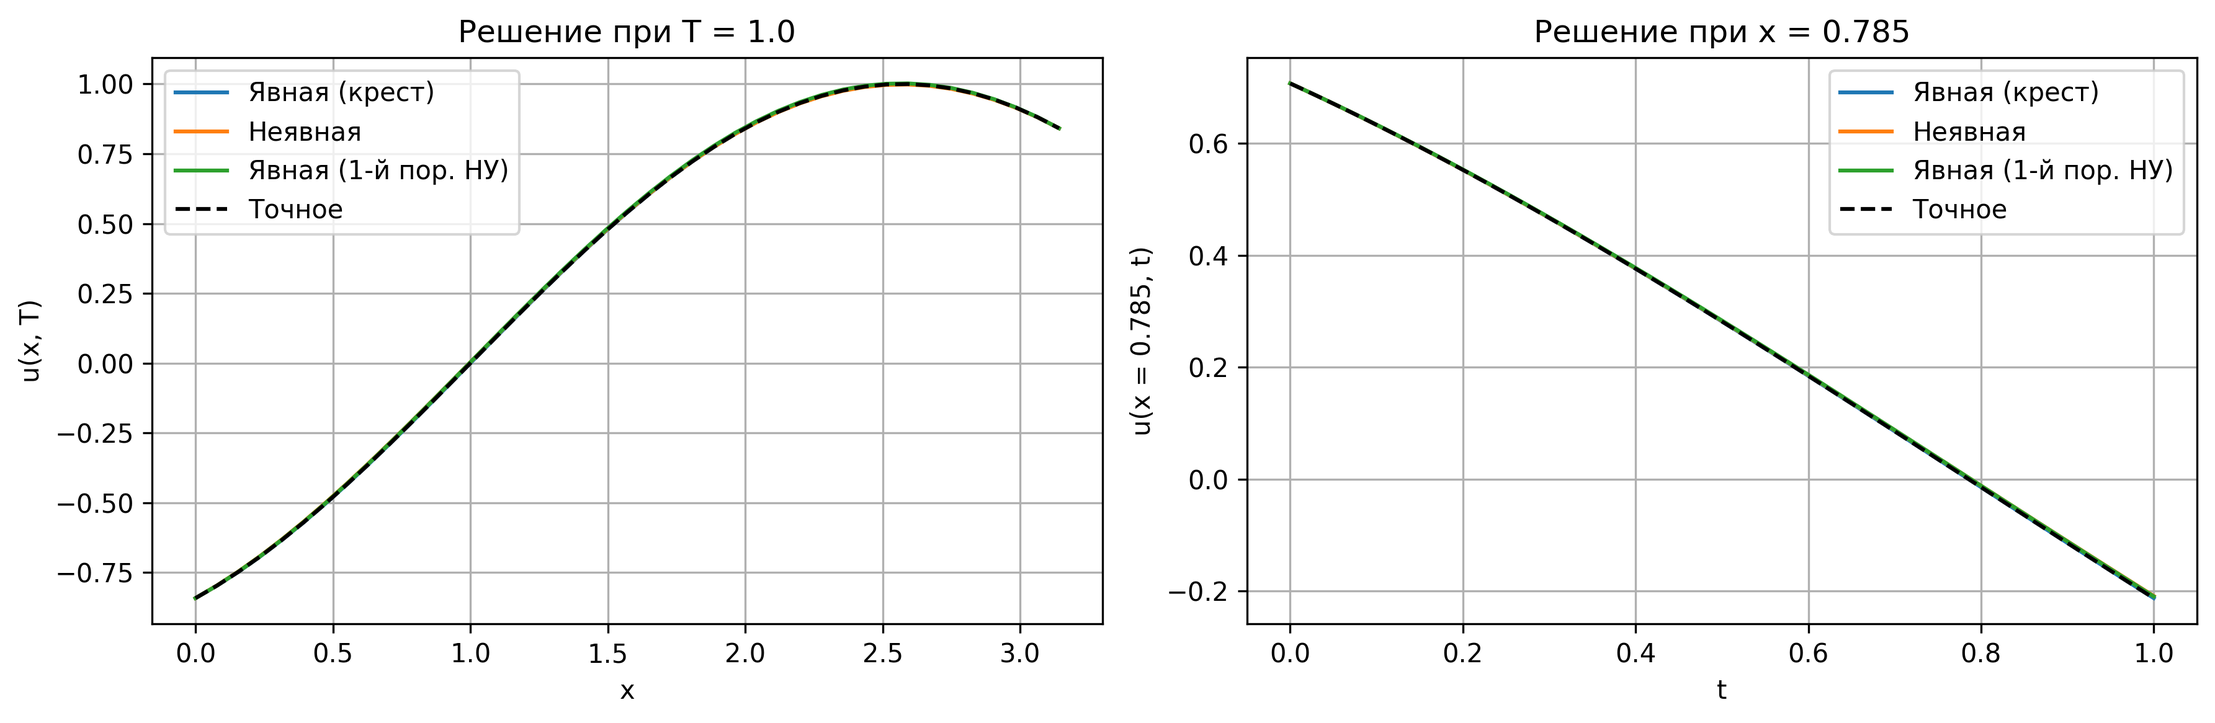
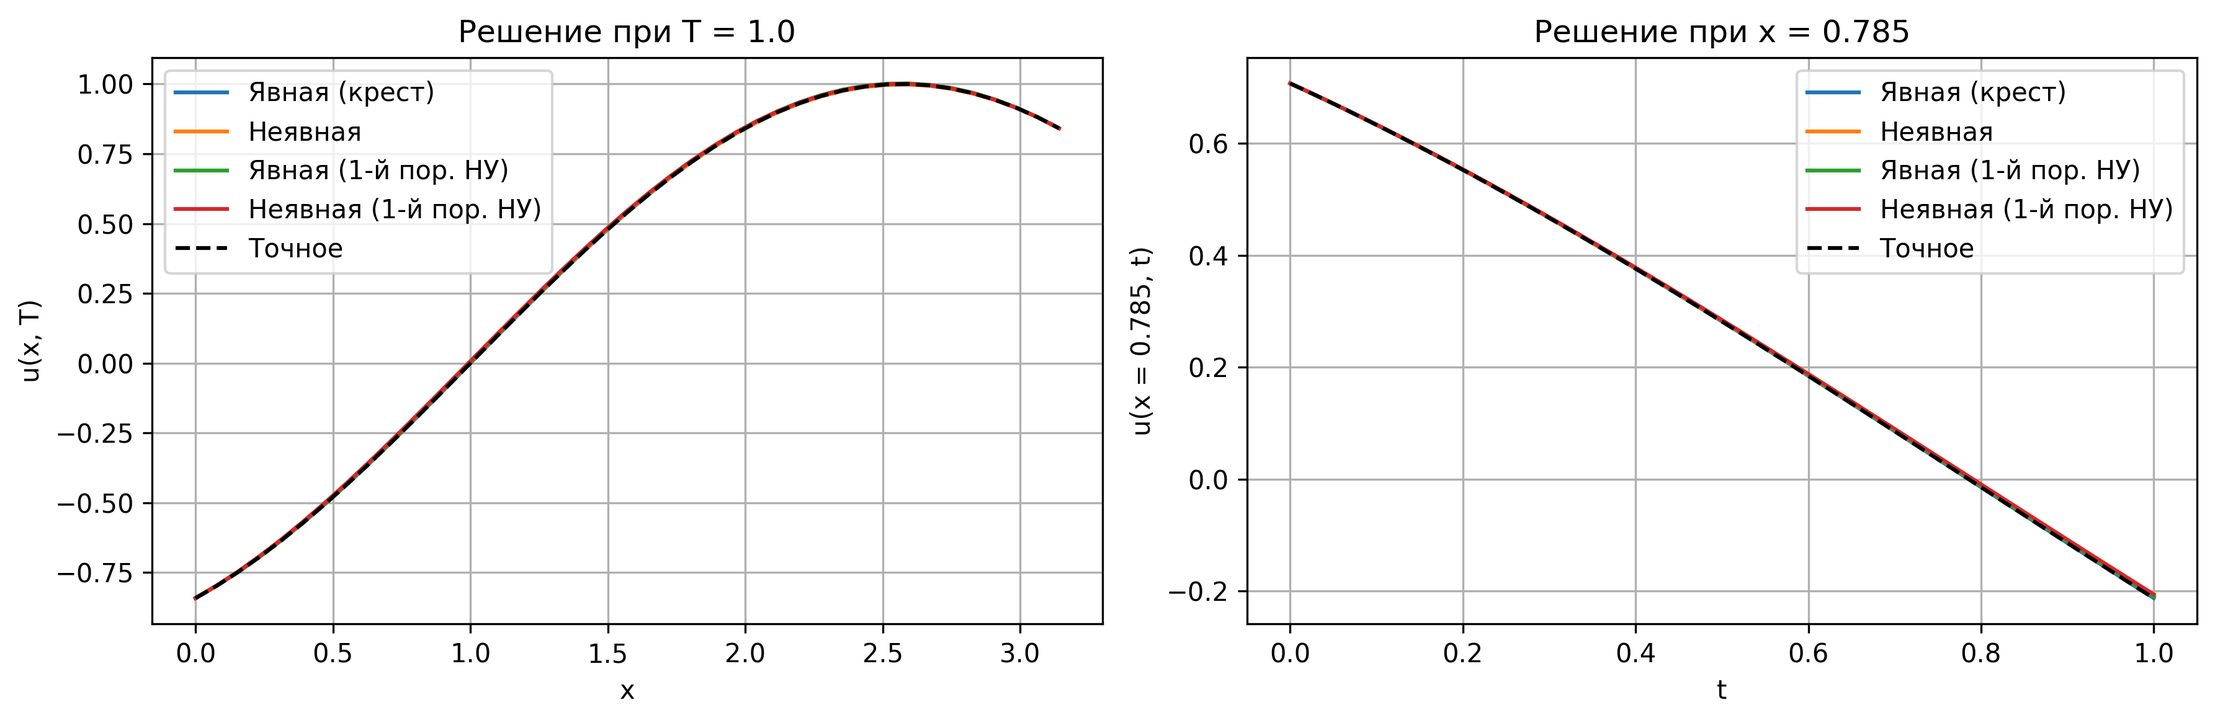
fix(lab6): Complete scheme comparisons and clarify plots
Add errors at multiple times, cover all four scheme variants, and make exact solution curves visible. Simplify comments and add a regression check.

diff --git a/task/utils.py b/task/utils.py
@@ -4,11 +4,6 @@ import matplotlib.pyplot as plt
 
 EPS = 1e-12
 
-# Физические параметры задачи для Варианта 1:
-# A_COEF = 1.0 — скорость распространения волны (фазовая скорость a = 1.0).
-# L = math.pi — расчетная область x in [0, pi].
-# T = 1.0 — расчетный интервал времени; за это время гармоническая волна успевает
-# сместиться на фазовый угол a*T = 1 радиан, наглядно демонстрируя волновой перенос профиля.
 A_COEF = 1.0
 L = math.pi
 T = 1.0
@@ -19,7 +14,6 @@ def get_plot_path(file_name):
 
 
 def exact_solution(x, t, a=A_COEF):
-    # Аналитическое решение одномерного волнового уравнения для Варианта 1:
     # U(x, t) = sin(x - a * t)
     return math.sin(x - a * t)
 
@@ -30,33 +24,28 @@ def initial_grid(n, k_total, a=A_COEF, t_max=T, init_order=2):
 
     h = L / n
     tau = t_max / k_total
-    sigma = (a * tau / h) ** 2  # Квадрат сеточного числа Куранта (параметр схемы)
+    sigma = (a * tau / h) ** 2  # Квадрат числа Куранта
 
     x_values = [j * h for j in range(n + 1)]
     t_values = [k * tau for k in range(k_total + 1)]
 
-    # Начальное распределение при t = 0 (1-е начальное условие): u(x, 0) = sin(x)
     u_0 = [math.sin(x) for x in x_values]
 
-    # Граничные условия Дирихле при t = 0: u(0, 0) = -sin(0) = 0, u(pi, 0) = sin(0) = 0
     u_0[0] = 0.0
     u_0[n] = 0.0
 
-    # Второй временной слой t = tau формируется из 2-го начального условия u_t(x, 0) = -a*cos(x)
+    # Первый шаг по времени: u_t(x, 0) = -a*cos(x)
     u_1 = [0.0] * (n + 1)
     if init_order == 1:
-        # Аппроксимация 1-го порядка: u_j^1 = u_j^0 + tau * u_t(x_j, 0) + O(tau)
+        # Первый порядок
         for j in range(1, n):
             u_1[j] = u_0[j] - tau * a * math.cos(x_values[j])
     else:
-        # Аппроксимация 2-го порядка через ряд Тейлора:
-        # u(x, tau) = u(x, 0) + tau * u_t(x, 0) + (tau^2 / 2) * u_tt(x, 0) + O(tau^3),
-        # где из уравнения u_tt = a^2 * u_xx: u_tt(x, 0) = a^2 * (sin(x))'' = -a^2 * sin(x) = -a^2 * u_0
+        # Второй порядок: ряд Тейлора с u_tt(x, 0) = -a^2*sin(x)
         for j in range(1, n):
             u_1[j] = (1.0 - 0.5 * (a * tau) ** 2) * u_0[j] - tau * a * math.cos(x_values[j])
 
-    # Граничные условия Дирихле (1-го рода) при t = tau:
-    # u(0, tau) = -sin(a * tau), u(pi, tau) = sin(a * tau)
+    # Граничные условия Дирихле
     u_1[0] = -math.sin(a * tau)
     u_1[n] = math.sin(a * tau)
 
@@ -64,20 +53,15 @@ def initial_grid(n, k_total, a=A_COEF, t_max=T, init_order=2):
 
 
 def tridiagonal_solve(lower, middle, upper, right):
-    """
-    Метод прогонки (алгоритм Томаса) для решения трехдиагональной СЛАУ A*u = d.
-    Условие применимости (диагональное преобладание): |middle_i| >= |lower_i| + |upper_i|.
-    В наших неявных схемах оно выполняется строго, деление на ноль исключено.
-    """
     m = len(middle)
-    p = [0.0] * m  # Прогоночные коэффициенты alpha
-    q = [0.0] * m  # Прогоночные коэффициенты beta
+    p = [0.0] * m
+    q = [0.0] * m
     res = [0.0] * m
 
     if abs(middle[0]) < EPS:
         raise ValueError("Деление на ноль на первом шаге прогонки")
 
-    # Прямой ход прогонки: расчет прогоночных коэффициентов
+    # Прямой ход
     p[0] = -upper[0] / middle[0]
     q[0] = right[0] / middle[0]
 
@@ -88,7 +72,7 @@ def tridiagonal_solve(lower, middle, upper, right):
         p[i] = -upper[i] / denom if i < m - 1 else 0.0
         q[i] = (right[i] - lower[i] * q[i - 1]) / denom
 
-    # Обратный ход прогонки: восстановление решения u_i = p_i * u_{i+1} + q_i
+    # Обратный ход
     res[m - 1] = q[m - 1]
     for i in range(m - 2, -1, -1):
         res[i] = p[i] * res[i + 1] + q[i]
@@ -100,12 +84,12 @@ def compute_errors(layers, x_values, t_values, a=A_COEF):
     n = len(x_values) - 1
     k_total = len(t_values) - 1
 
-    # 1. Максимальная абсолютная погрешность на финальном временном слое t = T
+    # Максимальная ошибка на последнем слое
     u_last = layers[-1]
     t_last = t_values[-1]
     max_err = max(abs(u_last[j] - exact_solution(x_values[j], t_last, a)) for j in range(n + 1))
 
-    # 2. Интегральная среднеквадратичная погрешность (RMSE) по всем узлам расчетной сетки
+    # RMSE по всем переданным узлам и слоям
     sum_sq = 0.0
     total = (k_total + 1) * (n + 1)
     for k in range(k_total + 1):
@@ -119,12 +103,12 @@ def compute_errors(layers, x_values, t_values, a=A_COEF):
 
 
 def build_plots(solutions, x_values, t_values, a=A_COEF):
-    t_fixed = T
+    t_fixed = t_values[-1]
     x_fixed_idx = round(len(x_values) / 4)
     x_fixed = x_values[x_fixed_idx]
 
-    # График 1: Профиль u(x, T) и временная динамика в фиксированной точке x = pi/4
-    fig1, axes1 = plt.subplots(1, 2, num="Сравнение схем", figsize=(12, 4))
+    # Профиль при t = T и динамика в фиксированной точке
+    _, axes1 = plt.subplots(1, 2, num="Сравнение схем", figsize=(12, 4))
     for name, layers in solutions.items():
         axes1[0].plot(x_values, layers[-1], label=name)
         u_t = [layers[k][x_fixed_idx] for k in range(len(t_values))]
@@ -150,28 +134,18 @@ def build_plots(solutions, x_values, t_values, a=A_COEF):
     plt.savefig(get_plot_path("plot_compare.png"), dpi=300, bbox_inches="tight")
     plt.close()
 
-    # График 2: Профили бегущей синусоидальной волны для различных моментов времени
-    times = [0.00, 0.25, 0.50, 1.00]
+    # Профили волны в разные моменты времени
+    indices = [round(fraction * (len(t_values) - 1)) for fraction in (0.0, 0.25, 0.5, 1.0)]
     fig2, axes2 = plt.subplots(2, 2, num="Профили волны (2х2)", figsize=(11, 8), sharey=True)
-    dt = t_values[1] - t_values[0]
 
-    plots_config = [
-        ("Точное решение", None, axes2[0, 0]),
-        ("Явная схема (крест)", solutions["Явная (крест)"], axes2[0, 1]),
-        ("Неявная схема", solutions["Неявная"], axes2[1, 0]),
-        ("Явная (1-й пор. НУ)", solutions["Явная (1-й пор. НУ)"], axes2[1, 1]),
-    ]
-
-    for title, layers, ax in plots_config:
-        for t_val in times:
-            k_idx = round(t_val / dt)
+    for (title, layers), ax in zip(solutions.items(), axes2.flat):
+        for k_idx in indices:
+            t_val = t_values[k_idx]
             exact_vals = [exact_solution(x, t_val, a) for x in x_values]
 
-            if layers is None:
-                ax.plot(x_values, exact_vals, label=f"t = {t_val:.2f}")
-            else:
-                line, = ax.plot(x_values, layers[k_idx], label=f"t = {t_val:.2f}")
-                ax.plot(x_values, exact_vals, linestyle="--", color=line.get_color(), alpha=0.6)
+            ax.plot(x_values, layers[k_idx], linewidth=2, label=f"t = {t_val:.2f}")
+            ax.plot(x_values, exact_vals, "k--", linewidth=1.2,
+                    label="Точное решение" if k_idx == indices[0] else "_nolegend_")
 
         ax.set_title(title)
         ax.set_xlabel("x")
@@ -180,15 +154,16 @@ def build_plots(solutions, x_values, t_values, a=A_COEF):
         ax.grid(True)
         ax.legend(loc="upper right")
 
+    fig2.suptitle("Цветные линии — численное решение, чёрный пунктир — точное")
     plt.tight_layout()
     plt.savefig(get_plot_path("plot_grid_2x2.png"), dpi=300, bbox_inches="tight")
     plt.close()
 
 
 def run_grid_convergence_study(schemes):
-    fig, axes = plt.subplots(1, 2, figsize=(12, 4.5), num="Исследование сходимости")
+    _, axes = plt.subplots(1, 2, figsize=(12, 4.5), num="Исследование сходимости")
 
-    # 1. Измельчение пространственного шага h при фиксированном числе Куранта nu = 0.5
+    # Совместное измельчение h и tau, число Куранта примерно 0.5
     n_list = [10, 20, 40, 80]
     nu_fixed = 0.5
     h_vals = [L / n for n in n_list]
@@ -206,13 +181,13 @@ def run_grid_convergence_study(schemes):
     for name, _ in schemes:
         axes[0].loglog(h_vals, err_h[name], marker="o", label=name)
 
-    axes[0].set_title("Измельчение пространственной сетки")
-    axes[0].set_xlabel("h = pi/N (tau = 0.5 h/a)")
+    axes[0].set_title("Совместное измельчение h и tau")
+    axes[0].set_xlabel("h = pi/N (tau ≈ 0.5 h/a)")
     axes[0].set_ylabel("max |ошибка| при T")
     axes[0].grid(True, which="both")
     axes[0].legend()
 
-    # 2. Измельчение шага по времени tau при фиксированном h (N = 40)
+    # Измельчение tau при фиксированном h
     n_fixed = 40
     k_list = [50, 100, 200, 400]
     tau_vals = [T / k for k in k_list]

diff --git a/task/task.py b/task/task.py
@@ -11,13 +11,13 @@ from utils import (
 )
 
 
+# Явная схема «крест»
 def solve_explicit(n=40, k_total=100, a=A_COEF, t_max=T, init_order=2):
-    x_values, t_values, u_0, u_1, h, tau, sigma = initial_grid(
+    x_values, t_values, u_0, u_1, _, tau, sigma = initial_grid(
         n, k_total, a, t_max, init_order=init_order
     )
 
-    # Условие устойчивости Куранта-Фридрихса-Леви (CFL) для явной схемы "крест":
-    # sigma = (a * tau / h)^2 <= 1.0. При sigma > 1.0 схема теряет устойчивость
+    # Условие устойчивости Куранта: sigma = (a*tau/h)^2 <= 1
     if sigma > 1.0 + 1e-12:
         raise ValueError(
             f"Явная схема неустойчива: sigma = (a*tau/h)^2 = {sigma:.4f} > 1.0 (нарушено условие Куранта)"
@@ -31,8 +31,6 @@ def solve_explicit(n=40, k_total=100, a=A_COEF, t_max=T, init_order=2):
         t_next = (k + 1) * tau
         u_next = [0.0] * (n + 1)
 
-        # Внутренние узлы j от 1 до n-1 вычисляются по схеме "крест":
-        # (u_j^{k+1} - 2*u_j^k + u_j^{k-1}) / tau^2 = a^2 * (u_{j-1}^k - 2*u_j^k + u_{j+1}^k) / h^2
         for j in range(1, n):
             u_next[j] = (
                 2.0 * u_cur[j]
@@ -40,9 +38,7 @@ def solve_explicit(n=40, k_total=100, a=A_COEF, t_max=T, init_order=2):
                 + sigma * (u_cur[j - 1] - 2.0 * u_cur[j] + u_cur[j + 1])
             )
 
-        # Граничные условия 1-го рода (Дирихле): u(0, t) = -sin(a*t) и u(pi, t) = sin(a*t).
-        # Производных на границах нет, поэтому задаем точные значения на краях напрямую
-        # без дополнительных аппроксимаций 1-го или 2-го порядков
+        # Условия Дирихле задаются напрямую, без аппроксимации производных
         u_next[0] = -math.sin(a * t_next)
         u_next[n] = math.sin(a * t_next)
 
@@ -53,16 +49,14 @@ def solve_explicit(n=40, k_total=100, a=A_COEF, t_max=T, init_order=2):
     return x_values, t_values, layers, sigma
 
 
+# Неявная схема: безусловно устойчива, первый порядок по времени
 def solve_implicit(n=40, k_total=100, a=A_COEF, t_max=T, init_order=2):
-    x_values, t_values, u_0, u_1, h, tau, sigma = initial_grid(
+    x_values, t_values, u_0, u_1, _, tau, sigma = initial_grid(
         n, k_total, a, t_max, init_order=init_order
     )
-    m = n - 1  # Число внутренних неизвестных узлов (j = 1 ... n-1)
+    m = n - 1
 
-    # Коэффициенты трехдиагональной матрицы СЛАУ на новом временном слое (k + 1):
-    # -sigma * u_{j-1}^{k+1} + (1 + 2*sigma) * u_j^{k+1} - sigma * u_{j+1}^{k+1} = 2*u_j^k - u_j^{k-1}
-    # Схема абсолютно устойчива при любых шагах h и tau благодаря диагональному преобладанию:
-    # |1 + 2*sigma| > 2*sigma.
+    # Коэффициенты трехдиагональной матрицы на новом слое
     lower = [-sigma] * m
     middle = [1.0 + 2.0 * sigma] * m
     upper = [-sigma] * m
@@ -76,17 +70,14 @@ def solve_implicit(n=40, k_total=100, a=A_COEF, t_max=T, init_order=2):
         u_next_0 = -math.sin(a * t_next)
         u_next_n = math.sin(a * t_next)
 
-        # Формируем правую часть из значений двух предыдущих временных слоев
         right = [2.0 * u_cur[j] - u_prev[j] for j in range(1, n)]
 
-        # Учитываем граничные условия Дирихле на краях отрезка для j=1 и j=n-1
+        # Перенос граничных значений в правую часть
         right[0] += sigma * u_next_0
         right[-1] += sigma * u_next_n
 
-        # Решаем СЛАУ с трехдиагональной матрицей методом скалярной прогонки
         internal = tridiagonal_solve(lower, middle, upper, right)
 
-        # Собираем полный временной слой с краевыми условиями Дирихле
         u_next = [u_next_0] + internal + [u_next_n]
 
         u_prev = u_cur
@@ -97,13 +88,10 @@ def solve_implicit(n=40, k_total=100, a=A_COEF, t_max=T, init_order=2):
 
 
 def solve_explicit_order1(n=40, k_total=100, a=A_COEF, t_max=T):
-    # Явная схема крест с аппроксимацией 2-го начального условия 1-м порядком:
-    # u_j^1 = u_j^0 + tau * psi2(x_j) (погрешность O(tau))
     return solve_explicit(n, k_total, a, t_max, init_order=1)
 
 
 def solve_implicit_order1(n=40, k_total=100, a=A_COEF, t_max=T):
-    # Неявная схема с аппроксимацией 2-го начального условия 1-м порядком
     return solve_implicit(n, k_total, a, t_max, init_order=1)
 
 
@@ -115,6 +103,7 @@ def main():
         ("Явная (крест)", solve_explicit),
         ("Неявная", solve_implicit),
         ("Явная (1-й пор. НУ)", solve_explicit_order1),
+        ("Неявная (1-й пор. НУ)", solve_implicit_order1),
     ]
 
     h = L / n
@@ -136,10 +125,18 @@ def main():
         max_err, rmse = compute_errors(layers, x, t)
         print(f"{name:<24}{max_err:<24.6e}{rmse:.6e}")
 
-    # Построение базовых графиков решения
+    assert x_base is not None and t_base is not None, "Не выбраны схемы для расчета"
+
+    print("\nПогрешности в разные моменты времени (RMSE по узлам одного слоя)")
+    print(f"{'Метод':<24}{'t':<10}{'max|ошибка|':<18}{'RMSE'}")
+    for name, layers in solutions.items():
+        for fraction in (0.0, 0.25, 0.5, 1.0):
+            k = round(fraction * k_total)
+            max_err, rmse = compute_errors([layers[k]], x_base, [t_base[k]])
+            print(f"{name:<24}{t_base[k]:<10.4f}{max_err:<18.6e}{rmse:.6e}")
+
     build_plots(solutions, x_base, t_base)
 
-    # Исследование зависимости погрешности от параметров сетки h и tau
     run_grid_convergence_study(schemes)
 
 

diff --git a/task/test_lab6.py b/task/test_lab6.py
@@ -1,0 +1,61 @@
+import io
+import math
+from contextlib import redirect_stdout
+from unittest.mock import patch
+
+import matplotlib
+
+matplotlib.use("Agg")
+
+import matplotlib.pyplot as plt
+import task
+
+
+def test_full_comparison():
+    plots = {}
+
+    def capture_plot(path, **kwargs):
+        plots[path.rsplit("/", 1)[-1]] = [
+            (ax.get_title(), list(ax.lines)) for ax in plt.gcf().axes
+        ]
+
+    output = io.StringIO()
+    with patch("utils.plt.savefig", side_effect=capture_plot), redirect_stdout(output):
+        task.main()
+
+    names = ["Явная (крест)", "Неявная", "Явная (1-й пор. НУ)", "Неявная (1-й пор. НУ)"]
+    text = output.getvalue()
+    assert names[-1] in text, "Неявная схема с первым порядком НУ пропущена"
+    assert "Погрешности в разные моменты времени" in text, "Нет таблицы ошибок по времени"
+    table = text.split("Погрешности в разные моменты времени", 1)[1]
+    solvers = [task.solve_explicit, task.solve_implicit,
+               task.solve_explicit_order1, task.solve_implicit_order1]
+    for name, solver in zip(names, solvers):
+        rows = [line[24:].split() for line in table.splitlines() if line[:24].strip() == name]
+        assert len(rows) == 4, (name, rows)
+        x, times, layers, _ = solver()
+        for row, k in zip(rows, [0, 25, 50, 100]):
+            t, max_error, rmse = map(float, row)
+            assert math.isclose(t, times[k], abs_tol=1e-12)
+            errors = [u - math.sin(xx - times[k]) for xx, u in zip(x, layers[k])]
+            assert math.isclose(max_error, max(map(abs, errors)), rel_tol=1e-6, abs_tol=1e-15)
+            assert math.isclose(rmse, math.sqrt(sum(e * e for e in errors) / len(errors)),
+                                rel_tol=1e-6, abs_tol=1e-15)
+
+    for _, lines in plots["plot_compare.png"]:
+        assert len(lines) == 5, "Нужны четыре схемы и точное решение"
+    profiles = plots["plot_grid_2x2.png"]
+    assert [title for title, _ in profiles] == names
+    assert all(len(lines) == 8 for _, lines in profiles)
+    for _, lines in profiles:
+        for numerical, exact in zip(lines[::2], lines[1::2]):
+            assert exact.get_linestyle() == "--"
+            assert exact.get_color() != numerical.get_color(), "Пунктир сливается с численным решением"
+        assert lines[1].get_label() == "Точное решение"
+    for _, lines in plots["plot_convergence.png"]:
+        assert len(lines) == 4, "Сходимость должна исследоваться для всех четырех схем"
+
+
+if __name__ == "__main__":
+    test_full_comparison()
+    print("Проверка lab6 пройдена")
